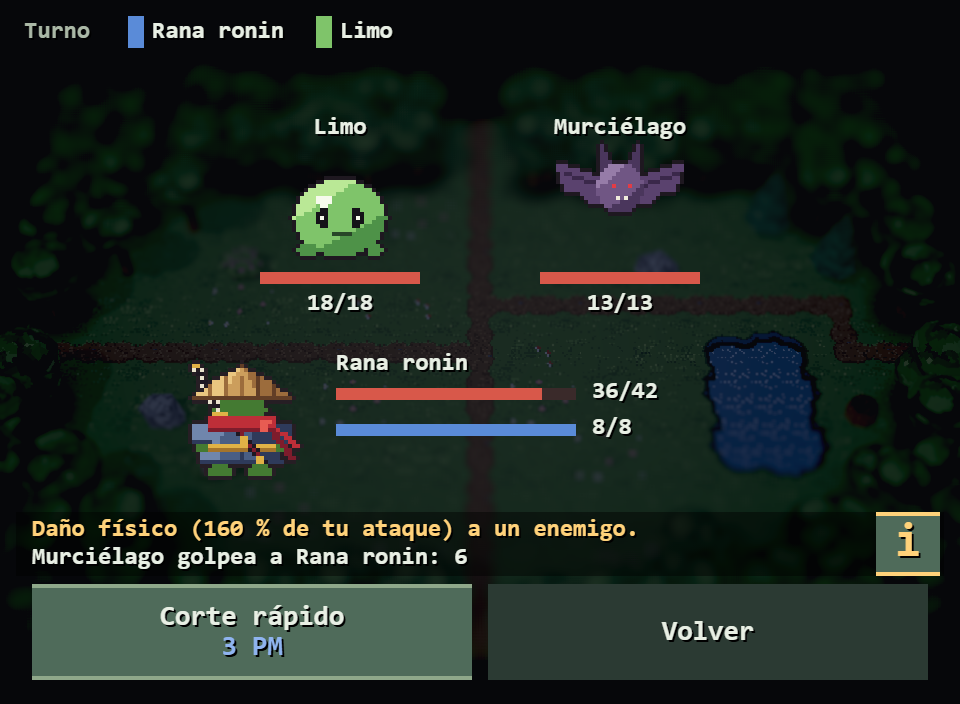
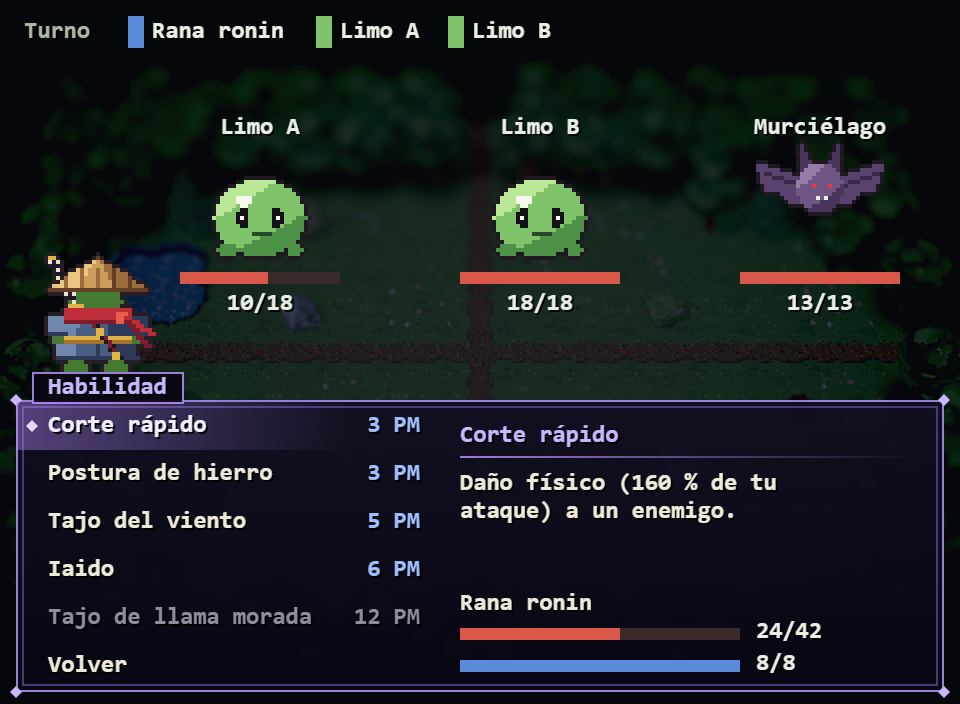
Capturas de los menús nuevos: README y documentación

diff --git a/README.md b/README.md
@@ -8,11 +8,11 @@ Dungeon crawler HD-2D para navegador y móvil (pixel art en escenarios 3D, al es
 
 | Explora el Bosque | Lucha | Enfréntate a los jefes |
 | --- | --- | --- |
-| ![Sala del Bosque en 3D con las puertas cerradas, el aviso de vencer a los monstruos y limos y murciélagos acercándose](docs/capturas/mapa.png) | ![Combate contra un limo y un murciélago con la sala desenfocada de fondo: la ronin elige Corte rápido y el panel explica qué hace](docs/capturas/combate.png) | ![Combate contra el Rey Limo con el Bosque de fondo](docs/capturas/jefe.png) |
+| ![Sala del Bosque en 3D con las puertas cerradas, el aviso de vencer a los monstruos y limos y murciélagos acercándose](docs/capturas/mapa.png) | ![Combate contra dos limos y un murciélago: abajo, el panel en lavanda con las habilidades y su coste a la izquierda y, a la derecha, qué hace la elegida y la ficha de la ronin](docs/capturas/combate.png) | ![Combate contra el golem de piedra: el jefe entero sobre el panel del menú](docs/capturas/jefe.png) |
 | **Las Ruinas** | **La Cripta** | **Elige heroína** |
 | ![Sala del tesoro de las Ruinas: muros de sillares, cofre, vasijas y un charco hundido](docs/capturas/ruinas.png) | ![Sala de descanso de la Cripta: la fuente, candelabros encendidos y fosas](docs/capturas/cripta.png) | ![Elección de heroína](docs/capturas/seleccion.png) |
 | **Mejora a tu rana** | **Completa el bestiario** | |
-| ![Inventario en la pestaña Heroína: estadísticas, equipo y habilidades](docs/capturas/inventario.png) | ![Bestiario con los monstruos vencidos y el resto en silueta](docs/capturas/bestiario.png) | |
+| ![Inventario: la lista a la izquierda y la heroína a la derecha, con sus barras, estadísticas, equipo y habilidades](docs/capturas/inventario.png) | ![Bestiario con los monstruos vencidos y el resto en silueta](docs/capturas/bestiario.png) | ![Inventario en Objetos: pociones, éter y antídoto con su cantidad y qué hace el elegido](docs/capturas/objetos.png) |
 
 ## Cómo se juega
 

diff --git a/docs/capturas/menus/LEEME.md b/docs/capturas/menus/LEEME.md
@@ -1,0 +1,18 @@
+# Capturas de los menús nuevos (2026-10-26)
+
+Combate e inventario al estilo de Octopath en lavanda de Nenúfar (diseño en
+`docs/superpowers/specs/2026-10-26-menus-design.md`). Hechas en Edge sin ventana con la semilla 1;
+para ver las 5 habilidades a nivel 1 y 3 enemigos en el Bosque se usaron trucos temporales que no
+están en el código.
+
+| Archivo | Qué enseña |
+| --- | --- |
+| `combate-principal.png` | Menú principal con 3 enemigos |
+| `combate-habilidades.png` | Habilidades justo después del turno enemigo: la descripción a la derecha |
+| `combate-aviso-sin-pm.png` | Dos toques en una habilidad apagada: el aviso ocupa el sitio de la descripción |
+| `combate-objetivo.png` | Elección de enemigo |
+| `combate-golem.png`, `combate-rey-sin-charca.png`, `combate-dragon.png` | Jefes altos: nombre y barra enteros sobre el panel |
+| `inventario-heroina.png` | Inventario, Heroína: caben las 5 habilidades |
+| `inventario-objetos.png` | Inventario, Objetos, tras usar una poción |
+| `inventario-ajustes.png` | Inventario, Ajustes, con el foco en Sonido |
+| `inventario-salir.png` | Salir pide «¿Seguro?» |
